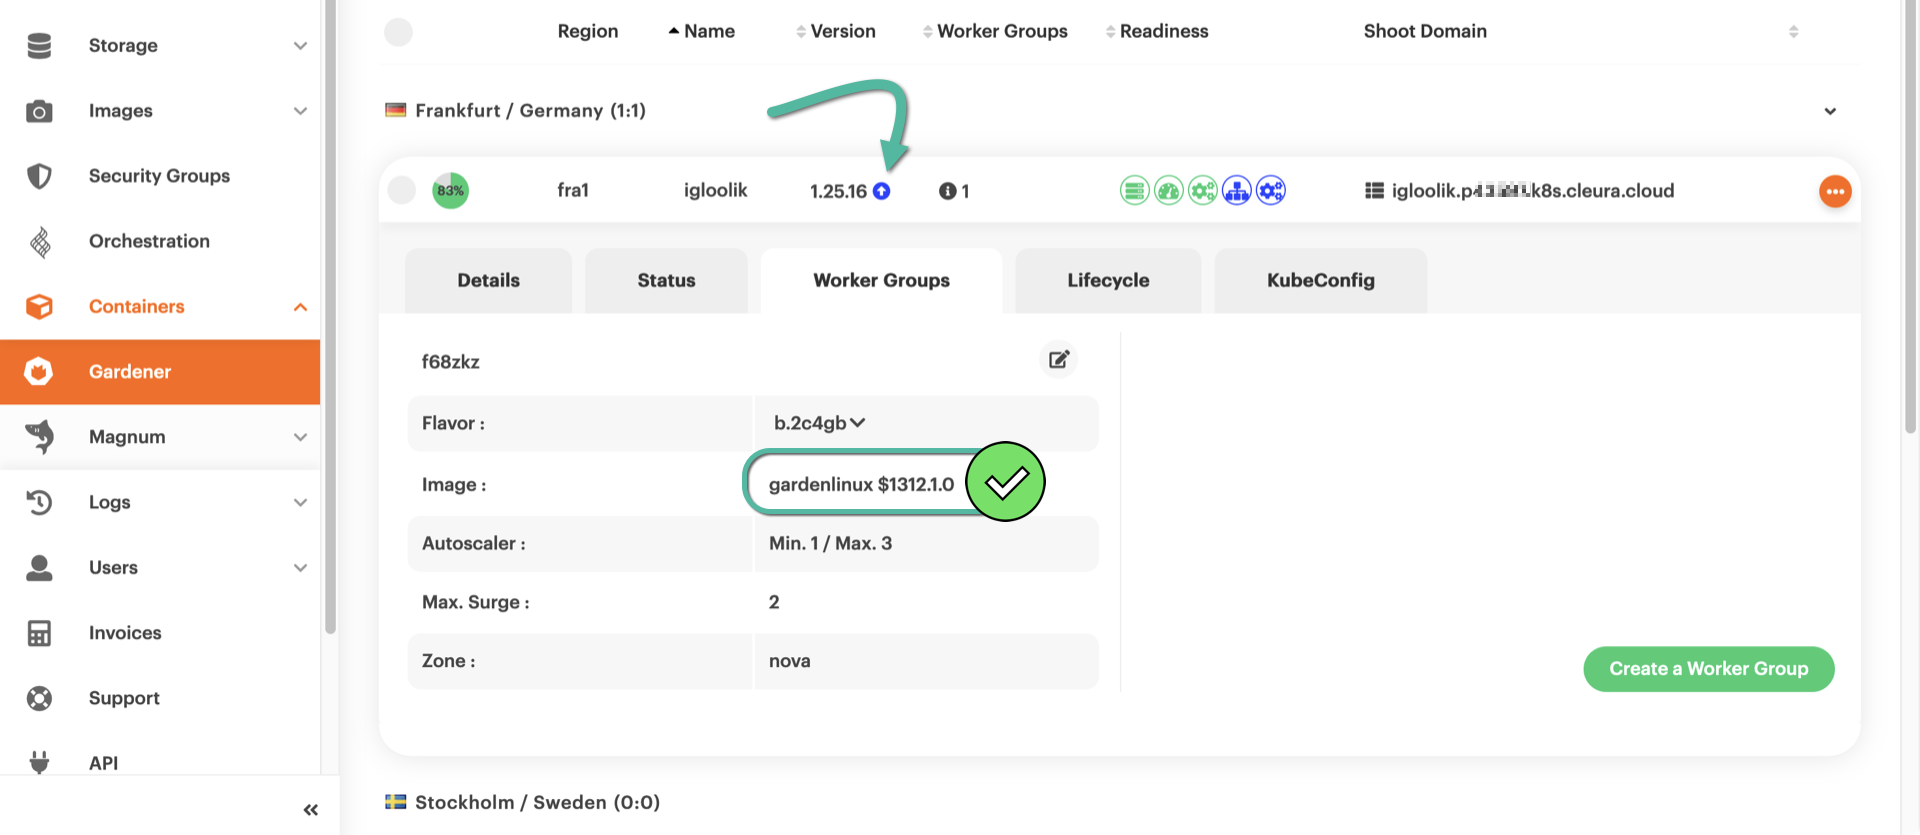
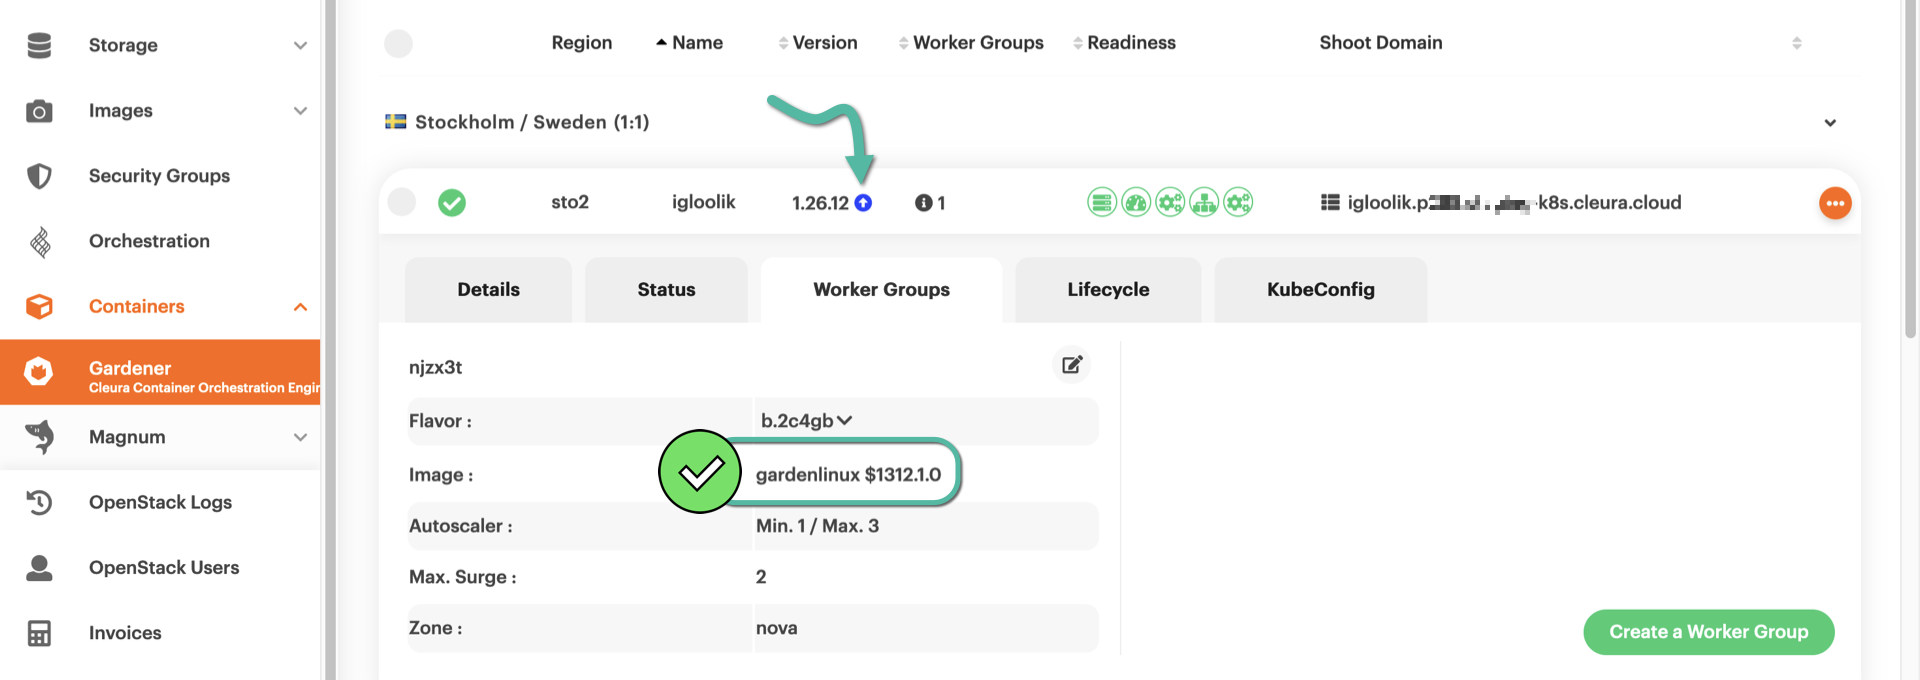
fix: Update shoot rolling upgrade How-To in light of k8s 1.27
We explicitly reference Kubernetes 1.27. Due to certain UI changes,
we re-create all screenshots and modify the prose accordingly.

diff --git a/docs/howto/kubernetes/gardener/rolling-upgrades.md b/docs/howto/kubernetes/gardener/rolling-upgrades.md
@@ -3,75 +3,60 @@ description: How to manually upgrade machine images or Kubernetes versions for G
 ---
 # Conducting rolling upgrades
 
-By default, Kubernetes clusters created with {{k8s_management_service}}
-in {{brand}} are upgraded automatically. Those upgrades take place
-during a specified maintenance window, and you may find out more about
-[what they involve and how they
-work](../../../background/kubernetes/gardener/autoupgrades.md). Besides
-the automatic upgrades, you can manually apply any upgrades available
-for your cluster.
+By default, Kubernetes clusters created with {{k8s_management_service}} in {{brand}} are upgraded automatically.
+Those upgrades take place during a specified maintenance window, and you may find out more about [what they involve and how they work](../../../background/kubernetes/gardener/autoupgrades.md).
+Besides the automatic upgrades, you may manually apply any upgrades available for your cluster.
 
-In the following two examples, we first show how to manually upgrade the
-machine image the cluster nodes are based on and then how to upgrade the
-Kubernetes version the cluster uses.
+In the following two examples, we first show how to manually upgrade the machine image the cluster nodes are based on.
+Then, we show how to upgrade the Kubernetes version the cluster uses.
 
 ## Upgrading machine images
 
-In the left-hand vertical pane of the {{gui}}, select Containers →
-[{{k8s_management_service}}](https://{{gui_domain}}/containers/gardener).
-In the central pane, you will see all your {{k8s_management_service}}
-clusters, each on its own row. If a Kubernetes upgrade is available, in
-the *Version* column you will notice a blue :fontawesome-solid-circle-arrow-up: icon, together with
-the new Kubernetes version. Additionally, if there is a new machine
-image version for the cluster nodes, then in the *Worker Groups* column you
-will also notice a blue :fontawesome-solid-circle-arrow-up: icon but no version number.
+In the left-hand vertical pane of the {{gui}}, select Containers → [{{k8s_management_service}}](https://{{gui_domain}}/containers/gardener).
+In the central pane, you will see all your {{k8s_management_service}} clusters, each on its own row.
+If a Kubernetes upgrade is available for a shoot cluster, in the *Version* column you will notice a blue :fontawesome-solid-circle-arrow-up: icon, together with the new Kubernetes version.
+Additionally, if there is a new machine image version for the cluster nodes, then in the *Worker Groups* column you will also notice a blue :fontawesome-solid-circle-arrow-up: icon but no version number.
 
 ![Garden Linux and Kubernetes upgrades available](assets/rollupgr-01.png)
 
-To get more information about the new machine image available, click on
-the cluster row to bring its details up into view, then select the *Worker
-Groups* tab. There, you will see the version of the new machine image.
-To start the upgrade process, click any of the two
-:fontawesome-solid-arrow-up: icons.
+To get more information about the new machine image available, click on the cluster row to bring its details up into view, then select the *Worker Groups* tab.
+There, you will see the version of the new machine image.
+To start the upgrade process, click any of the two :fontawesome-solid-arrow-up: icons.
 
 ![About to start Garden Linux upgrade](assets/rollupgr-02.png)
 
-The upgrade process will start immediately and will take some time to
-complete. A little before and after it is done, there will be no icon in the
-*Worker Groups* column, and the new image version will be displayed in the
-*Image* row of the *Worker Groups* tab. Our example still has an icon in the
-*Version* column. That is because we have not upgraded Kubernetes yet.
+The upgrade process starts immediately and takes some time to complete.
+A little before and after it is done, there is no icon in the *Worker Groups* column, and the new image version is displayed in the
+*Image* row of the *Worker Groups* tab.
+Since we have not upgraded Kubernetes yet, our example still has an icon in the *Version* column.
 
 ![Garden Linux upgraded](assets/rollupgr-03.png)
 
 ## Upgrading Kubernetes
 
-To get the Kubernetes upgrade process going, click the orange
-:material-dots-horizontal-circle: icon on the right of the cluster row.
-In the pop-up menu that appears, you will notice an option named
-*Kubernetes Patch Available*. That one is not always there, but now it
-is and acts as another indicator of an available Kubernetes upgrade.
+To get the Kubernetes upgrade process going, click the orange :material-dots-horizontal-circle: icon on the right of the cluster row.
+In the following example, we go from Kubernetes 1.26 to Kubernetes 1.27; that is the latest version supported at the time of this writing.
+In the pop-up menu that appears, there is an option named *Kubernetes Patch Available*.
+That one is not always there, and when it is acts as yet another indicator of an available Kubernetes upgrade.
 Please select the option by clicking on it.
 
 ![Kubernetes patch available](assets/rollupgr-04.png)
 
-A new pop-up window named *Upgrade Kubernetes Version for:
-&lt;cluster_name&gt;* appears. From the *Version* drop-down menu, you
-may select the new Kubernetes version you want your cluster to upgrade
-to.  When ready, click the blue *Upgrade* button to start the process.
+A new pop-up window named *Upgrade Kubernetes Version for: &lt;cluster_name&gt;* appears.
+From the *Version* drop-down menu, you may select the new Kubernetes version you want your cluster to upgrade to.
+When ready, click the blue *Upgrade* button to start the process.
 
 ![About to start a Kubernetes upgrade](assets/rollupgr-05.png)
 
-You will realize that the upgrade doesn't start right away. Instead, you
-are informed that the cluster is indeed ready for it, but there are some
-notes you might want to read up on before the whole process begins. If
-you do, copy and paste the provided URL into a separate browser tab or
-window. In any case, to actually get the upgrade going, click the
-*Upgrade* button which is now green.
+You will realize that the upgrade doesn't start right away.
+Instead, you are informed that the cluster is indeed ready for it, but there are some notes you might want to read up on before the whole process begins.
+The gist of it is that any existing static kubeconfig will stop working after the upgrade to Kubernetes 1.27, and you will not be able to create a new static kubeconfig.
+You will, however, be able to create [a new certificate-based kubeconfig](kubectl.md).
+To get the upgrade going, click the *Upgrade* button which is now green.
 
 ![Upgrade notes are available](assets/rollupgr-06.png)
 
-After some minutes, the upgrade will be over. The new Kubernetes version
-will be visible in the *Version* column of the cluster row.
+After some minutes, the upgrade will be over.
+The new Kubernetes version will be visible in the *Version* column of the cluster row.
 
 ![Kubernetes successfully upgraded](assets/rollupgr-07.png)
